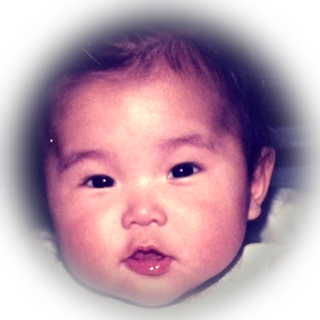
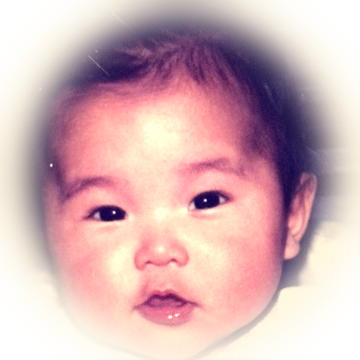
해의 빛을 흰색으로 바꾸고 가는 광선으로 되돌림
- 굵은 두 겹 광선을 가는 한 겹으로 환원
- 광선과 광채를 흰색 계열로 교체
- 얼굴 사진의 실내 배경과 옷깃을 잘라내고 그 자리를 흰빛으로 메움

Claude-Session: https://claude.ai/code/session_01Fan3R2hEbuKbT1xXm6ERZu

diff --git a/components/SunHead.module.css b/components/SunHead.module.css
@@ -6,7 +6,7 @@
   height: var(--sun);
   display: grid;
   place-items: center;
-  margin-bottom: clamp(64px, 9vw, 104px);
+  margin-bottom: clamp(52px, 7vw, 84px);
 
   opacity: 0;
   animation: appear 1.4s ease 0.2s forwards;
@@ -18,66 +18,41 @@
   }
 }
 
-/* 긴 광선 */
+/* 가늘고 긴 광선. 한 바퀴에 90초 */
 .rays {
   position: absolute;
-  inset: -140%;
+  inset: -85%;
   background: repeating-conic-gradient(
     from 0deg,
-    transparent 0deg,
-    rgba(255, 250, 228, 0.92) 2.6deg,
-    transparent 6deg,
-    transparent 11.25deg
+    rgba(255, 255, 255, 0.62) 0deg 0.8deg,
+    transparent 0.8deg 5.4deg
   );
   -webkit-mask: radial-gradient(
     closest-side,
-    transparent 16%,
-    #000 30%,
-    #000 44%,
-    transparent 84%
+    transparent 28%,
+    #000 42%,
+    #000 58%,
+    transparent 88%
   );
   mask: radial-gradient(
     closest-side,
-    transparent 16%,
-    #000 30%,
-    #000 44%,
-    transparent 84%
+    transparent 28%,
+    #000 42%,
+    #000 58%,
+    transparent 88%
   );
-  animation: spin 120s linear infinite;
+  animation: spin 90s linear infinite;
 }
 
-/* 짧은 광선. 각도를 어긋나게 겹쳐 길이를 들쭉날쭉하게 만든다 */
-.rays2 {
+/* 얼굴 둘레에서 번지는 빛 */
+.glow {
   position: absolute;
-  inset: -92%;
-  background: repeating-conic-gradient(
-    from 5.6deg,
-    transparent 0deg,
-    rgba(255, 242, 196, 0.8) 2.2deg,
-    transparent 5.2deg,
-    transparent 11.25deg
-  );
-  -webkit-mask: radial-gradient(
-    closest-side,
-    transparent 22%,
-    #000 38%,
-    transparent 86%
-  );
-  mask: radial-gradient(closest-side, transparent 22%, #000 38%, transparent 86%);
-  animation: spin 120s linear infinite;
-}
-
-/* 얼굴이 앉는 밝은 원반 */
-.core {
-  position: absolute;
-  inset: -48%;
+  inset: -42%;
   background: radial-gradient(
     closest-side,
-    #fffdf4 0%,
-    #ffefc0 38%,
-    rgba(255, 214, 120, 0.85) 56%,
-    rgba(255, 186, 80, 0.35) 72%,
-    transparent 88%
+    rgba(255, 255, 255, 0.62),
+    rgba(255, 255, 255, 0.2) 52%,
+    transparent 76%
   );
   animation: breathe 7s ease-in-out infinite;
 }
@@ -97,12 +72,12 @@
 @keyframes breathe {
   0%,
   100% {
-    opacity: 0.92;
+    opacity: 0.85;
     transform: scale(1);
   }
   50% {
     opacity: 1;
-    transform: scale(1.04);
+    transform: scale(1.06);
   }
 }
 
@@ -112,8 +87,7 @@
     animation: none;
   }
   .rays,
-  .rays2,
-  .core {
+  .glow {
     animation: none;
   }
 }

diff --git a/components/SunHead.tsx b/components/SunHead.tsx
@@ -3,23 +3,22 @@ import styles from "./SunHead.module.css";
 /**
  * 이름 위에 떠 있는 해. 원반 가운데가 어릴 적 얼굴이다.
  *
- * 광선은 repeating-conic-gradient를 radial mask로 잘라 만든다. 길고 짧은
- * 두 겹을 각도를 어긋나게 겹쳐야 길이가 들쭉날쭉해 보인다 — 한 겹만 쓰면
- * 바퀴살처럼 규칙적이라 빛으로 읽히지 않는다.
+ * 광선은 repeating-conic-gradient를 radial mask로 잘라 만든다.
+ * mask의 안쪽 정지점이 얼굴 반지름보다 커야 광선이 얼굴을 덮지 않는다.
  *
- * .rays는 inset -140%라서 실제 차지하는 폭이 원반의 약 3.8배다.
+ * .rays는 inset -85%라서 실제 차지하는 폭이 원반의 약 2.7배다.
  * 부모에 overflow: hidden을 걸면 광선이 잘리니 주의.
  *
- * 얼굴 이미지(public/sun/face.png)는 배경을 지우고 가장자리를 빛의 색으로
- * 녹여둔 것이다. .core의 밝은 원반 위에 얹혀 경계 없이 이어진다. 사진을
- * 바꾸려면 같은 방식으로 배경을 없앤 정사각형 PNG를 덮어쓰면 된다.
+ * 얼굴 이미지(public/sun/face.png)는 실내 배경과 옷깃을 잘라내고 그 자리를
+ * 흰빛으로 메운 것이다. 투명하게 뚫으면 검은 배경이 비쳐 도려낸 것처럼
+ * 보이므로, 빛과 같은 색으로 채워 .glow에 그대로 이어지게 했다.
+ * 사진을 바꾸려면 같은 방식으로 만든 정사각형 PNG를 덮어쓰면 된다.
  */
 export function SunHead() {
   return (
     <div className={styles.sun} aria-hidden="true">
       <div className={styles.rays} />
-      <div className={styles.rays2} />
-      <div className={styles.core} />
+      <div className={styles.glow} />
       <img className={styles.face} src="/sun/face.png" alt="" />
     </div>
   );
